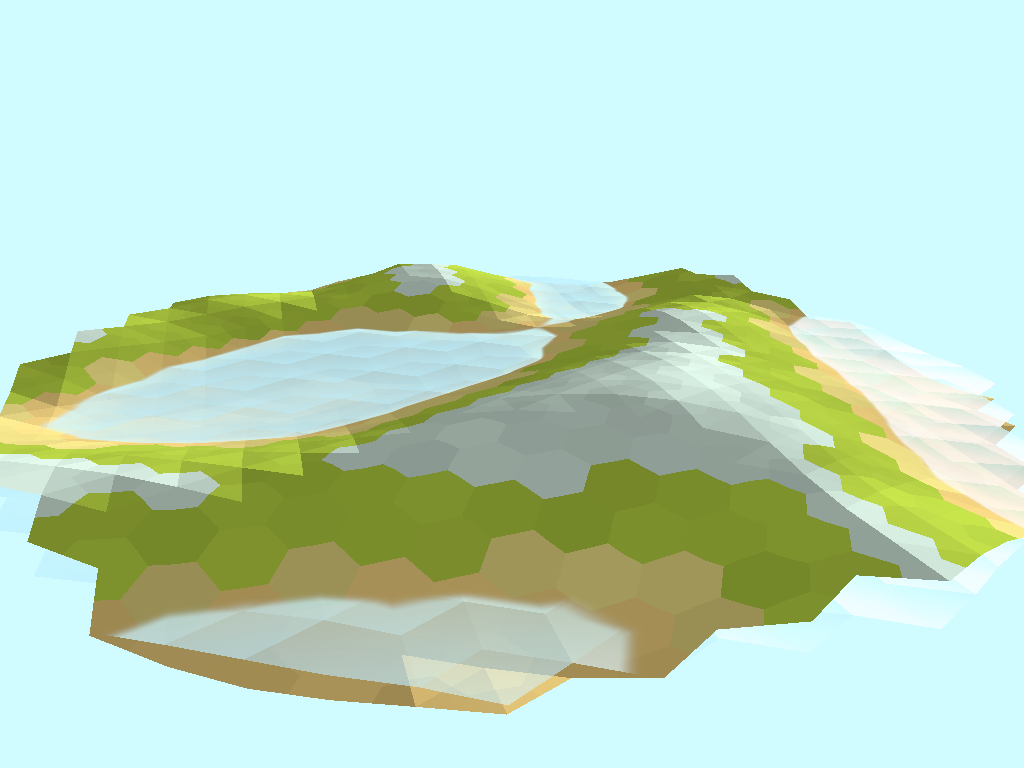
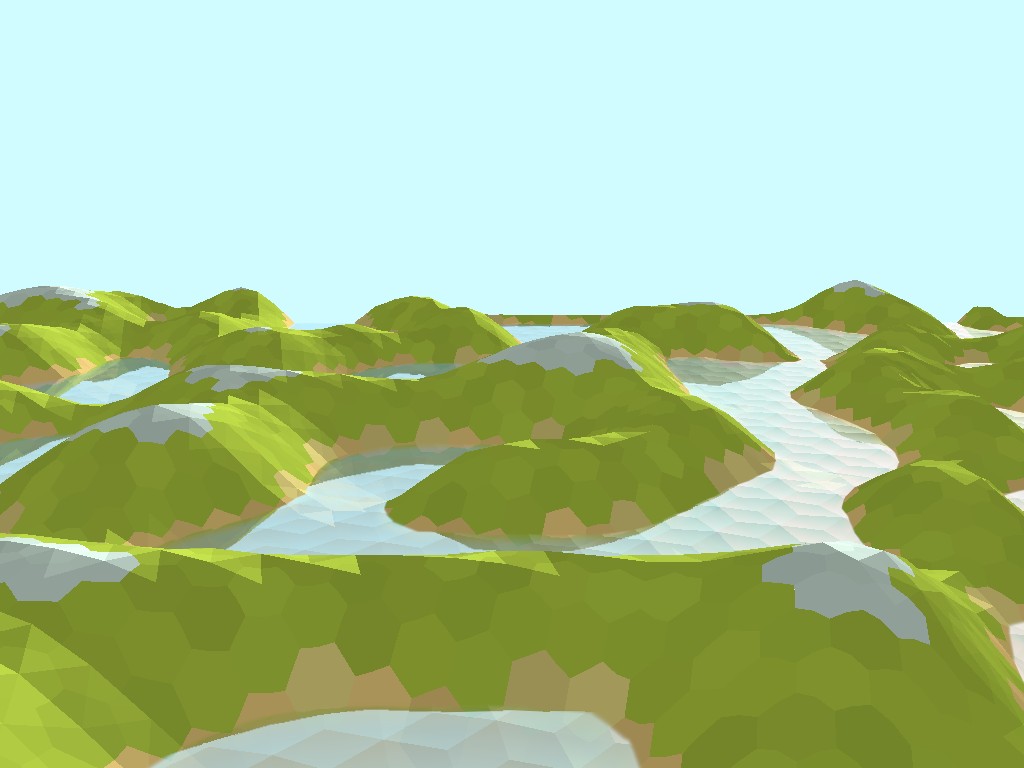
Tweak Water Example to Show Off Water Shader More

diff --git a/wgpu/examples/water/main.rs b/wgpu/examples/water/main.rs
@@ -17,16 +17,16 @@ use wgpu::util::DeviceExt;
 /// this value will require modification of the time
 /// scale in the `render` method below.
 ///
-const SIZE: f32 = 10.0;
+const SIZE: f32 = 29.0;
 
 ///
 /// Location of the camera.
 /// Location of light is in terrain/water shaders.
 ///
 const CAMERA: Point3<f32> = Point3 {
-    x: -100.0,
-    y: 50.0,
-    z: 100.0,
+    x: -200.0,
+    y: 70.0,
+    z: 200.0,
 };
 
 struct Matrices {
@@ -289,7 +289,7 @@ impl framework::Example for Example {
                 use rand::Rng;
                 let noise = terrain_noise.get([point[0] as f64 / 5.0, point[1] as f64 / 5.0]) + 0.1;
 
-                let y = noise as f32 * 8.0;
+                let y = noise as f32 * 22.0;
 
                 // Multiplies a colour by some random amount.
                 fn mul_arr(mut arr: [u8; 4], by: f32) -> [u8; 4] {
@@ -316,7 +316,7 @@ impl framework::Example for Example {
                     DARK_SAND
                 } else if y <= 0.8 {
                     SAND
-                } else if y <= 3.0 {
+                } else if y <= 10.0 {
                     GRASS
                 } else {
                     SNOW
